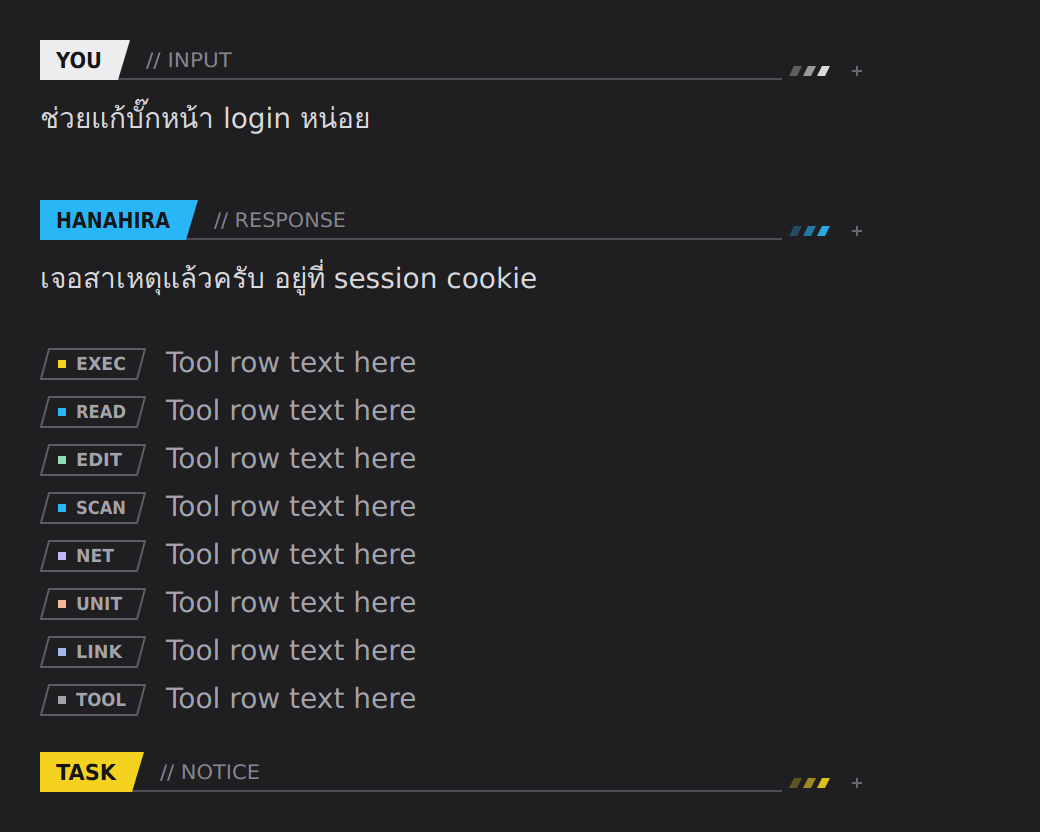
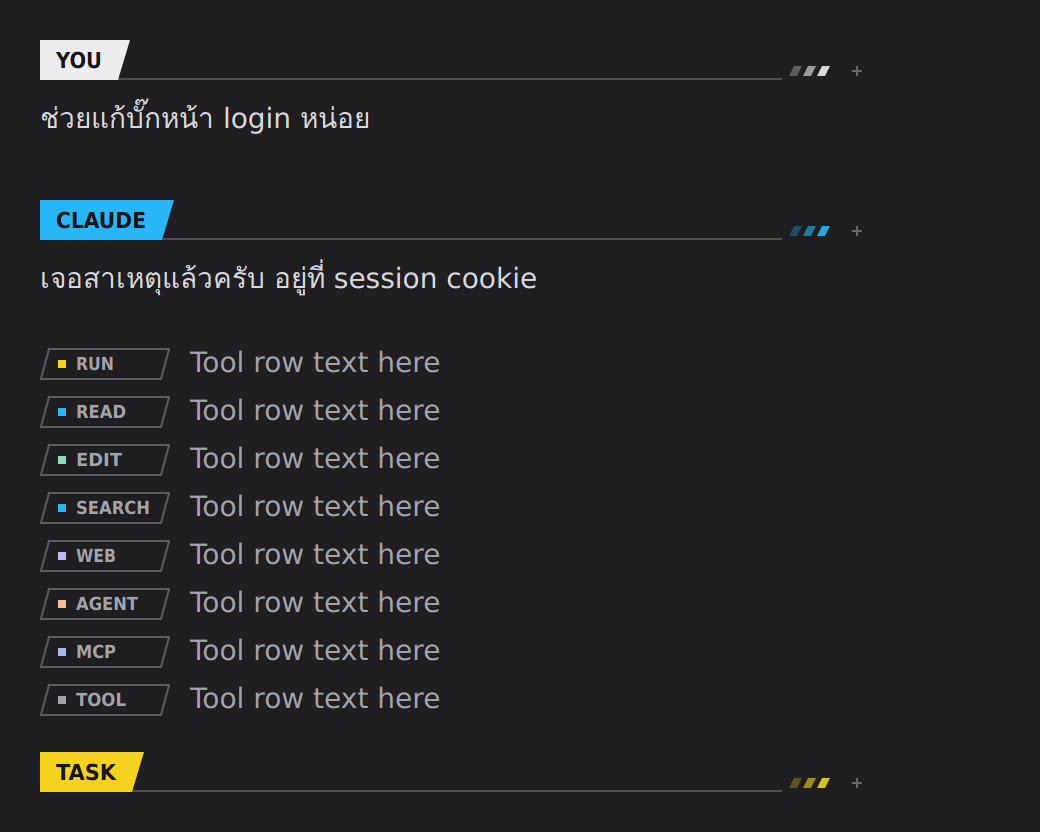
Transcript headers and tags say one plain word each
The words the transcript styling added were many and its own (YOU // INPUT,
HANAHIRA // RESPONSE, EXEC, SCAN, NET, UNIT, LINK), which a person has to
learn. Each header is now one word and no caption: YOU, CLAUDE, TASK,
MESSAGE, AUTO. Tool tags use the app's own words: RUN, READ, EDIT, SEARCH,
WEB, AGENT, MCP, TOOL. The reply's name is THEME.chat.replyName.

No message or tool row text is changed, now or before: the hooks only add
the header and the tag. docs/chat-preview.png is redrawn.

Tests: 200 pass.

diff --git a/hooks/register.tsx b/hooks/register.tsx
@@ -300,18 +300,22 @@ const THEME = {
   // The transcript in the band's look: a header over the person's messages and over each
   // reply, and a tag before each tool row. Any of the three set false leaves those rows as
   // the app draws them. `motion` false draws them still.
-  chat: { user: true, reply: true, tools: true, motion: true },
+  chat: { user: true, reply: true, tools: true, motion: true, replyName: 'Claude' },
 }
 
+/**
+ * One plain word, and no caption after it: a header only says who is speaking, in words the app
+ * already uses, so nothing in the transcript needs learning.
+ */
 /** Who a user-role row is from, as its header names it: the person, a background task, another agent or session. */
 export const speakerOf = (kind: string, hasTask: boolean, hasFrom: boolean) =>
   hasTask || kind === 'task-notification'
-    ? { label: 'task', caption: 'notice', color: HUE.hazard }
+    ? { label: 'task', color: HUE.hazard }
     : hasFrom
-      ? { label: 'link', caption: 'message', color: HUE.fur }
+      ? { label: 'message', color: HUE.fur }
       : kind === 'composer' || kind === 'bridge' || kind === 'sdk' || kind === 'unclassified'
-        ? { label: 'you', caption: 'input', color: INK.value }
-        : { label: 'auto', caption: kind.replace(/[^a-z]+/gi, ' ').trim() || 'input', color: INK.label }
+        ? { label: 'you', color: INK.value }
+        : { label: 'auto', color: INK.label }
 
 type Word = { text: string; quoted: boolean; runs: boolean }
 
@@ -1582,10 +1586,10 @@ export const register: Register = on => {
     const { Box, Svg } = table
     const who = speakerOf(e.props.origin.kind, e.props.task !== undefined, e.props.from !== undefined)
     const enter = await entering($, `u:${e.requestId}`, SPEAKER.inMs)
-    const art = speakerSvg(who.label, who.color, { caption: who.caption, enter })
+    const art = speakerSvg(who.label, who.color, { enter })
     return (
       <Box flexDirection="column" rowGap={1}>
-        <Svg source={art.svg} alt={`${who.label} ${who.caption}`} width={art.width} height={art.height} />
+        <Svg source={art.svg} alt={who.label} width={art.width} height={art.height} />
         {row}
       </Box>
     )
@@ -1598,10 +1602,10 @@ export const register: Register = on => {
     if (!THEME.chat.reply || !('Svg' in table) || !e.props.isFirstOfReply || e.props.isSummary) return row
     const { Box, Svg } = table
     const enter = await entering($, `a:${e.requestId}`, SPEAKER.inMs)
-    const art = speakerSvg(THEME.fallbackTitle, THEME.accent, { caption: 'response', enter })
+    const art = speakerSvg(THEME.chat.replyName, THEME.accent, { enter })
     return (
       <Box flexDirection="column" rowGap={1}>
-        <Svg source={art.svg} alt={`${THEME.fallbackTitle} response`} width={art.width} height={art.height} />
+        <Svg source={art.svg} alt={THEME.chat.replyName} width={art.width} height={art.height} />
         {row}
       </Box>
     )

diff --git a/hooks/hud.ts b/hooks/hud.ts
@@ -446,7 +446,7 @@ export const TOOL_TAG = { height: 16, fs: 9, lean: 4, pad: 6, inMs: 260 }
 
 /**
  * A tool row's tag: an outlined parallelogram holding a solid square in `color` and the kind
- * of work in capitals (EXEC, READ, EDIT). `minWidth` holds every tag as wide as the widest, so
+ * of work in capitals (RUN, READ, EDIT). `minWidth` holds every tag as wide as the widest, so
  * the rows after them line up. With `enter` (the row's age in ms, under `TOOL_TAG.inMs`) it comes in
  * once, from that far in; with `running` its square blinks for as long as the call runs (a loop).
  */
@@ -476,15 +476,18 @@ export const toolTagSvg = (label: string, color: string, opts: { minWidth?: numb
   return { svg, width, height: h, natural }
 }
 
-/** The kinds of work a tool row is tagged with, and each one's colour. */
+/**
+ * The kinds of work a tool row is tagged with, and each one's colour. The words are the plain
+ * ones the app itself uses (run, read, edit, search), so a tag never needs explaining.
+ */
 export const TOOL_KIND = {
-  exec: { label: 'exec', color: HUE.hazard },
+  exec: { label: 'run', color: HUE.hazard },
   read: { label: 'read', color: HUE.sky },
   edit: { label: 'edit', color: HUE.mint },
-  scan: { label: 'scan', color: HUE.sky },
-  net: { label: 'net', color: HUE.lilac },
-  unit: { label: 'unit', color: HUE.peach },
-  link: { label: 'link', color: HUE.fur },
+  scan: { label: 'search', color: HUE.sky },
+  net: { label: 'web', color: HUE.lilac },
+  unit: { label: 'agent', color: HUE.peach },
+  link: { label: 'mcp', color: HUE.fur },
   tool: { label: 'tool', color: INK.label },
 }
 

diff --git a/hooks/register.test.ts b/hooks/register.test.ts
@@ -328,8 +328,10 @@ describe('speakerOf', () => {
     expect(speakerOf('composer', false, false).label).toBe('you')
     expect(speakerOf('unclassified', false, false).label).toBe('you')
     expect(speakerOf('task-notification', true, false).label).toBe('task')
-    expect(speakerOf('unclassified', false, true).label).toBe('link')
-    expect(speakerOf('scheduled-task', false, false)).toMatchObject({ label: 'auto', caption: 'scheduled task' })
+    expect(speakerOf('unclassified', false, true).label).toBe('message')
+    expect(speakerOf('scheduled-task', false, false).label).toBe('auto')
+    // One word, nothing after it.
+    expect(Object.keys(speakerOf('composer', false, false))).toEqual(['label', 'color'])
   })
 })
 

diff --git a/hooks/hud.test.ts b/hooks/hud.test.ts
@@ -197,7 +197,9 @@ describe('tool tags', () => {
   })
   test('draw the kind in capitals with its colour, held to a width', () => {
     const t = toolTagSvg(TOOL_KIND.exec.label, TOOL_KIND.exec.color)
-    expect(t.svg).toContain('>EXEC</text>')
+    expect(t.svg).toContain('>RUN</text>')
+    // Plain words only: the ones the app itself uses for these tools.
+    expect(Object.values(TOOL_KIND).map(k => k.label)).toEqual(['run', 'read', 'edit', 'search', 'web', 'agent', 'mcp', 'tool'])
     expect(t.svg).toContain(`fill="${HUE.hazard}"`)
     expect(toolTagSvg('net', HUE.lilac, { minWidth: t.width + 20 }).width).toBe(t.width + 20)
   })
